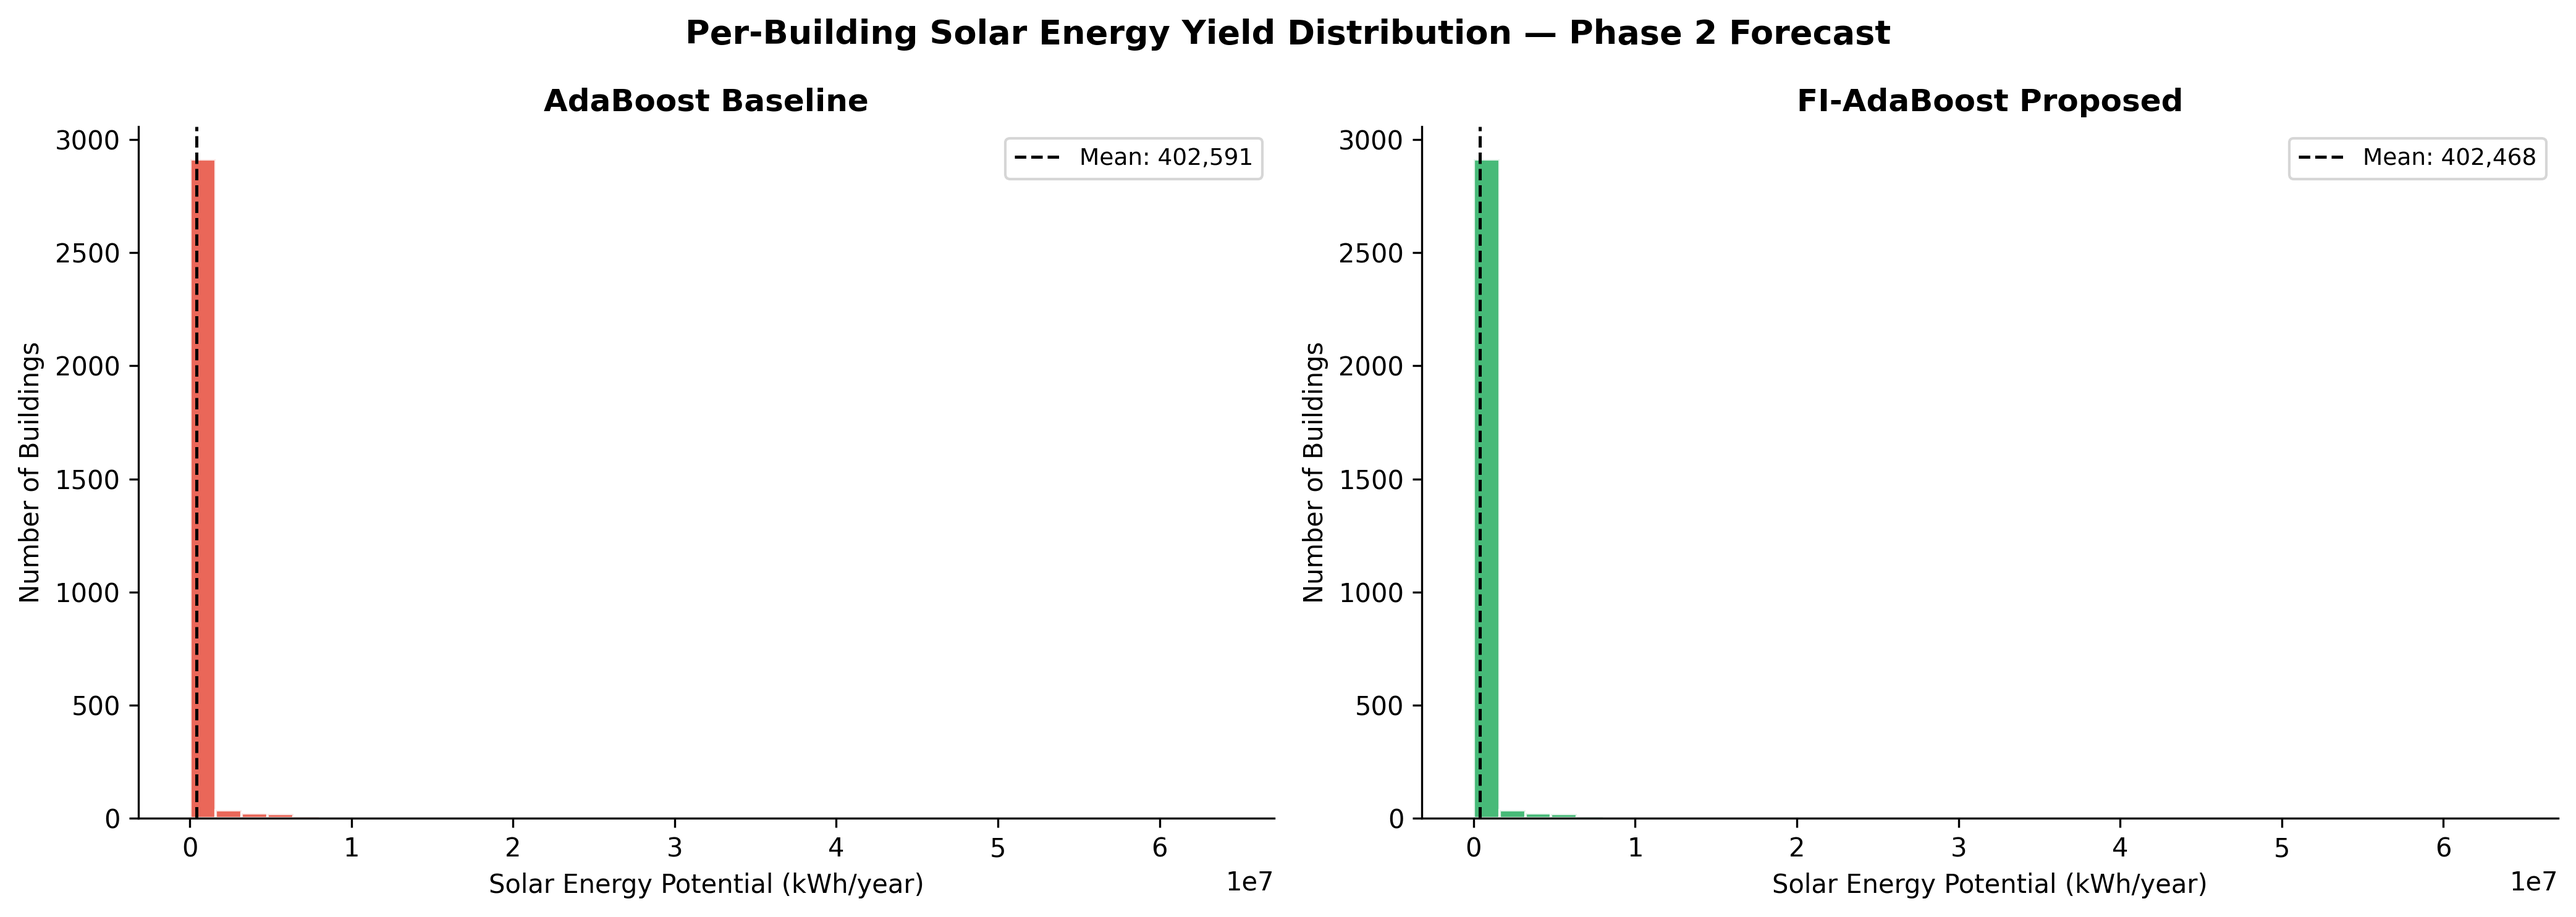
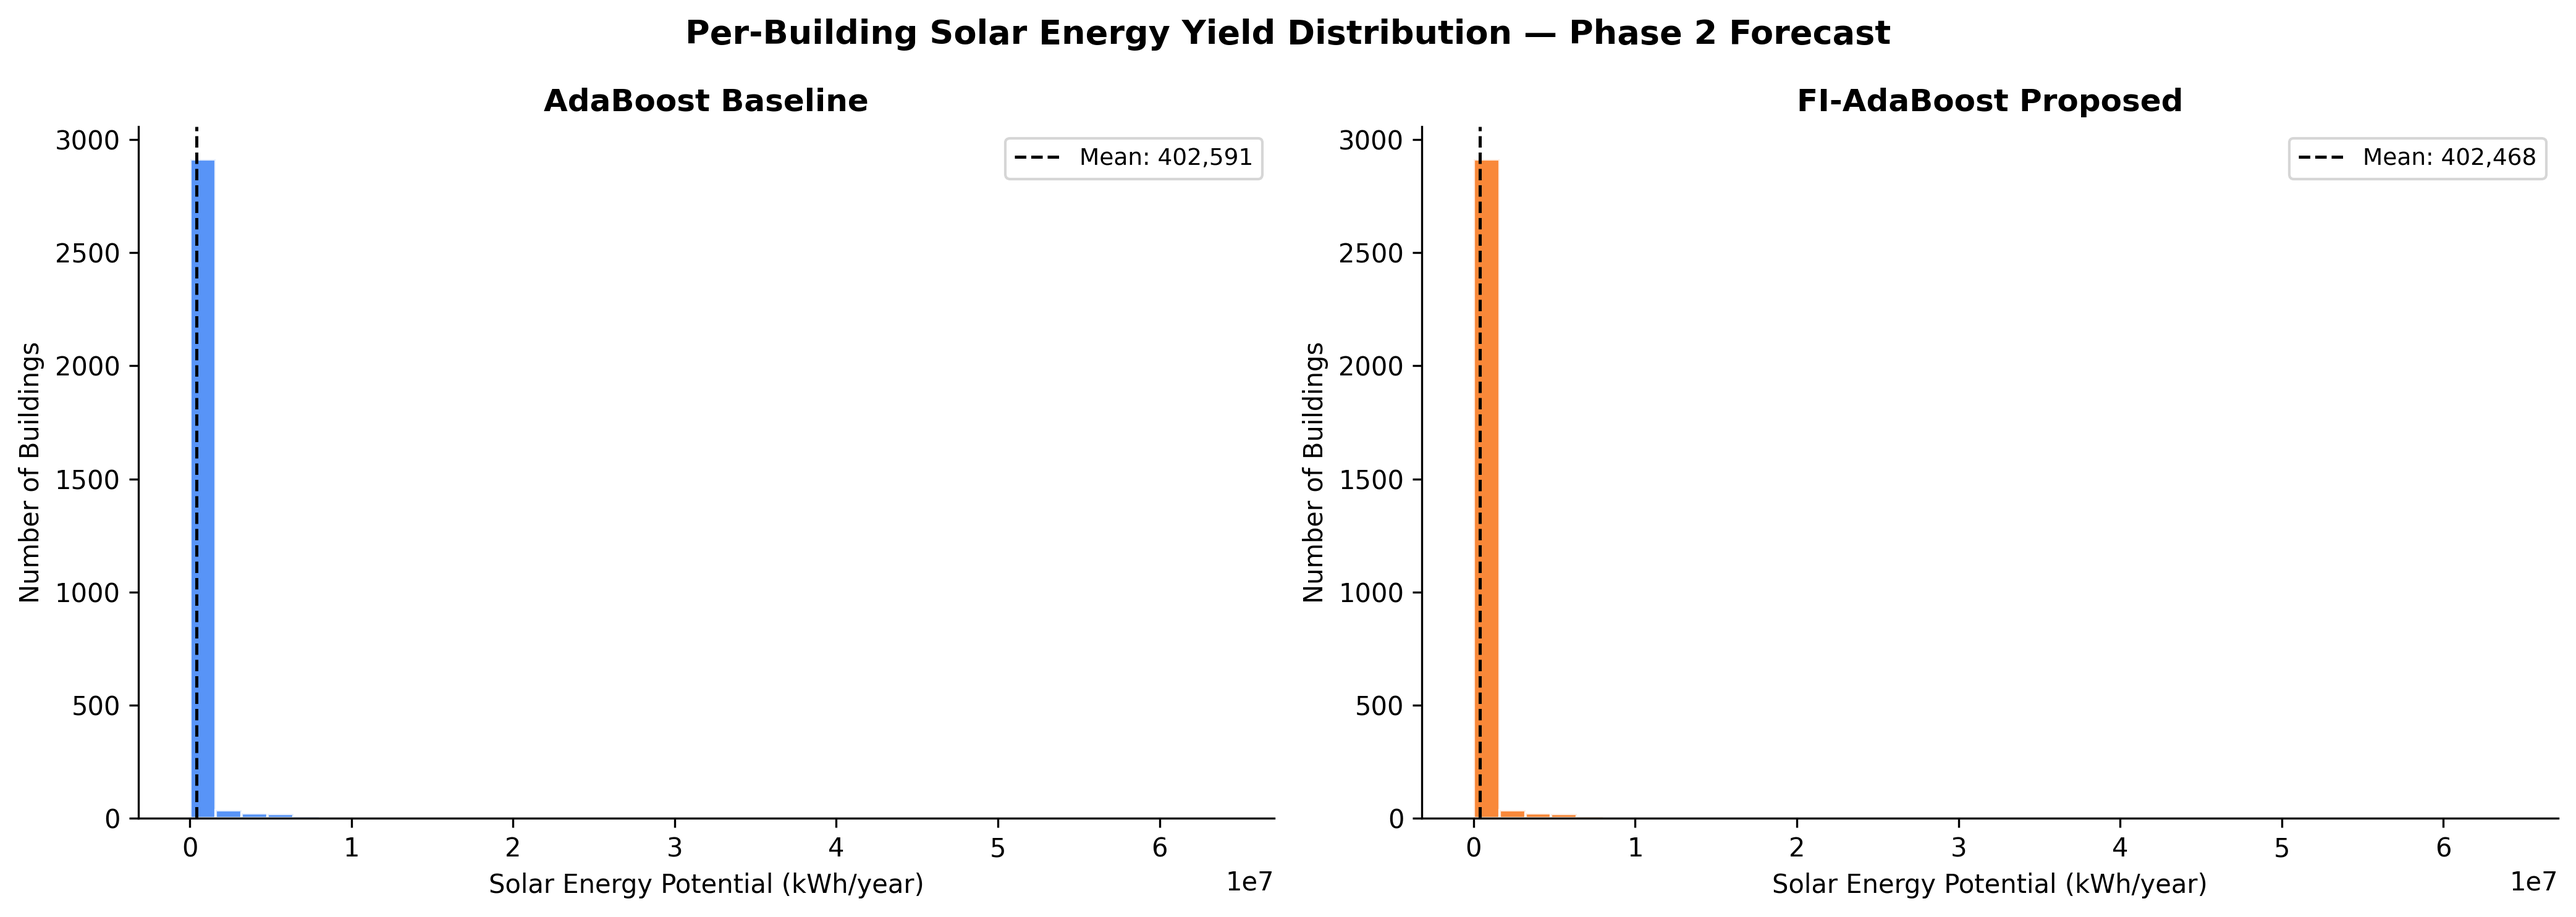
fixed

Changed region(s): [[0.5613, 0.1549, 0.5925, 0.8983], [0.0624, 0.1859, 0.0935, 0.8983]]

diff --git a/Solar_Energy_Potential_Forecasting_Prototype/src/components/GlobalModelAnalytics.tsx b/Solar_Energy_Potential_Forecasting_Prototype/src/components/GlobalModelAnalytics.tsx
@@ -305,7 +305,7 @@ export function GlobalModelAnalytics() {
                         <YAxis stroke="#64748b" />
                         <Tooltip formatter={(v: number | string) => formatExact(Number(v), 6)} />
                         <Legend />
-                        <Bar dataKey="baseline" name="Baseline AdaBoost" fill="#94a3b8" radius={[8, 8, 0, 0]} />
+                        <Bar dataKey="baseline" name="Baseline AdaBoost" fill="#3b82f6" radius={[8, 8, 0, 0]} />
                         <Bar dataKey="fiAdaBoost" name="FI-AdaBoost" fill="#f97316" radius={[8, 8, 0, 0]} />
                       </BarChart>
                     </ResponsiveContainer>
@@ -325,7 +325,7 @@ export function GlobalModelAnalytics() {
                         />
                         <Tooltip formatter={(v: number | string) => formatPercent(Number(v), 6)} />
                         <Legend />
-                        <Bar dataKey="baseline" name="Baseline AdaBoost" fill="#94a3b8" radius={[8, 8, 0, 0]} />
+                        <Bar dataKey="baseline" name="Baseline AdaBoost" fill="#3b82f6" radius={[8, 8, 0, 0]} />
                         <Bar dataKey="fiAdaBoost" name="FI-AdaBoost" fill="#f97316" radius={[8, 8, 0, 0]} />
                       </BarChart>
                     </ResponsiveContainer>
@@ -419,84 +419,6 @@ export function GlobalModelAnalytics() {
               }
             />
           )}
-        </CardContent>
-      </Card>
-
-      {/* ── SECTION 4: Visual Analysis ───────────────────────────────────────── */}
-      <Card className="border-2 border-sky-200 bg-gradient-to-br from-sky-50 via-cyan-50 to-teal-50 shadow-xl">
-        <CardHeader>
-          <CardTitle className="text-2xl">Visual Analysis</CardTitle>
-          <CardDescription>
-            Predicted vs Actual scatter and error distribution histogram.
-          </CardDescription>
-        </CardHeader>
-        <CardContent className="space-y-10">
-          {/* A. Predicted vs Actual */}
-          {/* <section>
-            <h3 className="mb-1 text-lg font-semibold">A. Predicted vs Actual</h3>
-            <p className="mb-4 text-sm text-slate-500">
-              Points on — or close to — the dashed diagonal indicate accurate predictions.
-            </p>
-            {trainingAnalytics ? (
-              <div className="grid grid-cols-1 gap-6 xl:grid-cols-2">
-                <ScatterPanel
-                  title="Baseline AdaBoost"
-                  data={trainingAnalytics.predictedVsActual.baseline}
-                  color="#94a3b8"
-                  domainMin={trainingAnalytics.predictedVsActual.domainMin}
-                  domainMax={trainingAnalytics.predictedVsActual.domainMax}
-                />
-                <ScatterPanel
-                  title="FI-AdaBoost"
-                  data={trainingAnalytics.predictedVsActual.fiAdaBoost}
-                  color="#f97316"
-                  domainMin={trainingAnalytics.predictedVsActual.domainMin}
-                  domainMax={trainingAnalytics.predictedVsActual.domainMax}
-                />
-              </div>
-            ) : (
-              <EmptyState
-                message={loading ? 'Loading scatter plots…' : error ?? 'Training analytics unavailable.'}
-              />
-            )}
-          </section> */}
-
-          {/* B. Error distribution */}
-          <section>
-            <h3 className="mb-1 text-lg font-semibold">B. Error Distribution</h3>
-            <p className="mb-4 text-sm text-slate-500">
-              Residual histogram — FI-AdaBoost should show a tighter spread around zero.
-            </p>
-            {trainingAnalytics ? (
-              <>
-                <ResponsiveContainer width="100%" height={320}>
-                  <BarChart data={trainingAnalytics.errorDistribution} barCategoryGap="10%">
-                    <CartesianGrid strokeDasharray="3 3" stroke="#e5e7eb" />
-                    <XAxis dataKey="bucket" stroke="#64748b" interval={2} angle={-25} textAnchor="end" height={70} />
-                    <YAxis stroke="#64748b" />
-                    <Tooltip />
-                    <Legend />
-                    <Bar dataKey="baseline" name="Baseline residual count" fill="#94a3b8" radius={[5, 5, 0, 0]} />
-                    <Bar dataKey="fiAdaBoost" name="FI-AdaBoost residual count" fill="#f97316" radius={[5, 5, 0, 0]} />
-                  </BarChart>
-                </ResponsiveContainer>
-                {residualNote && (
-                  <div className="mt-4 rounded-xl border border-sky-200 bg-white p-4 text-sm text-slate-700 shadow-sm">
-                    <p>{residualNote}</p>
-                    <p className="mt-2 text-xs text-slate-500">
-                      Residual std — Baseline: {trainingAnalytics.residualSummary.baselineStd.toFixed(2)},
-                      FI-AdaBoost: {trainingAnalytics.residualSummary.fiStd.toFixed(2)}.
-                    </p>
-                  </div>
-                )}
-              </>
-            ) : (
-              <EmptyState
-                message={loading ? 'Loading error distribution…' : error ?? 'Training analytics unavailable.'}
-              />
-            )}
-          </section>
-
         </CardContent>
       </Card>
 
@@ -679,8 +601,13 @@ export function GlobalModelAnalytics() {
                   description: 'Train vs test RMSE per model. A large gap between the two bars signals overfitting — the model memorised training data but generalises poorly.',
                 },
                 {
+                  file: 'baseline_feature_importances.png',
+                  caption: 'Baseline AdaBoost Feature Importances',
+                  description: 'Gini-based feature importance from the baseline AdaBoost ensemble. Higher bars indicate features that contributed more splits across all trees in the baseline model.',
+                },
+                {
                   file: 'standalone_feature_importances.png',
-                  caption: 'Feature Importances',
+                  caption: 'FI-AdaBoost Feature Importances',
                   description: 'Weighted feature importance from FI-AdaBoost weak learners. Higher bars contributed more to the boosting decisions; features on the right drive the most prediction variance.',
                 },
                 {

diff --git a/Solar_Energy_Potential_Forecasting_Prototype/src/components/ModelAnalytics.tsx b/Solar_Energy_Potential_Forecasting_Prototype/src/components/ModelAnalytics.tsx
@@ -30,7 +30,8 @@ interface ComparisonData {
   improvement: {
     solarPotentialDiff: number;
     solarPotentialImprovementPct: number;
-    confidenceLevel: number;
+    baselineConfidenceLevel: number;
+    fiConfidenceLevel: number;
   };
   performanceMetricsComparison?: {
     baseline: { rmse: number; mae: number; r2: number };
@@ -142,36 +143,26 @@ export function ModelAnalytics({ lat = 7.0731, lng = 125.6128 }: ModelAnalyticsP
                 </div>
               </div>
 
-              <div className="rounded-xl border border-sky-200 bg-white p-4 shadow-sm">
-                <p className="text-xs text-slate-500 uppercase tracking-wide">Prediction Confidence</p>
-                <p className="mt-1 text-3xl font-semibold text-sky-700">
-                  {formatPercent(liveComparison.improvement.confidenceLevel, 1)}
-                </p>
-                <p className="text-xs text-slate-400">Based on proximity to training data and model agreement</p>
-              </div>
-
-              {liveComparison.performanceMetricsComparison && (
-                <div className="rounded-xl border border-slate-200 bg-white p-4 shadow-sm">
-                  <p className="text-xs text-slate-500 uppercase tracking-wide">Saved Test Metrics (from results/metrics_summary.csv)</p>
-                  <div className="mt-3 grid grid-cols-1 gap-3 md:grid-cols-3">
-                    <div>
-                      <p className="text-xs text-slate-500">RMSE (J/m²/day)</p>
-                      <p className="text-sm text-slate-700">Baseline: {formatResultsErrorMetric(liveComparison.performanceMetricsComparison.baseline.rmse)}</p>
-                      <p className="text-sm text-orange-600">FI: {formatResultsErrorMetric(liveComparison.performanceMetricsComparison.fiAdaBoost.rmse)}</p>
-                    </div>
-                    <div>
-                      <p className="text-xs text-slate-500">MAE (J/m²/day)</p>
-                      <p className="text-sm text-slate-700">Baseline: {formatResultsErrorMetric(liveComparison.performanceMetricsComparison.baseline.mae)}</p>
-                      <p className="text-sm text-orange-600">FI: {formatResultsErrorMetric(liveComparison.performanceMetricsComparison.fiAdaBoost.mae)}</p>
-                    </div>
-                    <div>
-                      <p className="text-xs text-slate-500">R²</p>
-                      <p className="text-sm text-slate-700">Baseline: {formatRawR2(liveComparison.performanceMetricsComparison.baseline.r2)}</p>
-                      <p className="text-sm text-orange-600">FI: {formatRawR2(liveComparison.performanceMetricsComparison.fiAdaBoost.r2)}</p>
-                    </div>
-                  </div>
+              <div className="grid grid-cols-1 gap-4 md:grid-cols-2">
+                <div className="rounded-xl border border-blue-200 bg-white p-4 shadow-sm">
+                  <p className="text-xs text-slate-500 uppercase tracking-wide">Baseline Prediction Confidence</p>
+                  <p className="mt-1 text-3xl font-semibold text-blue-600">
+                    {formatPercent(liveComparison.improvement.baselineConfidenceLevel, 1)}
+                  </p>
+                  <p className="mt-2 text-xs text-slate-500 leading-relaxed">
+                    Based purely on <span className="font-medium text-slate-600">spatial proximity</span> — how close the selected pin is to the nearest known rooftop point in the training dataset. The baseline model is the reference, so its confidence has no comparison partner; it reflects only how well the location is represented by training data.
+                  </p>
                 </div>
-              )}
+                <div className="rounded-xl border border-orange-200 bg-white p-4 shadow-sm">
+                  <p className="text-xs text-slate-500 uppercase tracking-wide">FI-AdaBoost Prediction Confidence</p>
+                  <p className="mt-1 text-3xl font-semibold text-orange-500">
+                    {formatPercent(liveComparison.improvement.fiConfidenceLevel, 1)}
+                  </p>
+                  <p className="mt-2 text-xs text-slate-500 leading-relaxed">
+                    Combines <span className="font-medium text-slate-600">spatial proximity</span> (70%) and <span className="font-medium text-slate-600">model agreement</span> (30%). Since FI-AdaBoost is an optimisation over the baseline, its confidence is partly validated by how closely it agrees with the reference — a large divergence in predicted irradiance lowers this score.
+                  </p>
+                </div>
+              </div>
             </>
           ) : (
             <div className="rounded-xl border border-dashed border-slate-300 bg-white/70 p-6 text-sm text-slate-500">

diff --git a/FIAdaBoost/src/model_training.py b/FIAdaBoost/src/model_training.py
@@ -106,8 +106,8 @@ DAILY_FEATURES = [
 DAILY_TARGET = "GHI_J"
 
 
-C_ADA = "#E74C3C"
-C_FI  = "#27AE60"
+C_ADA = "#3B82F6"
+C_FI  = "#F97316"
 
 
 # =============================================================================
@@ -229,6 +229,8 @@ class BaselineAdaBoost:
         return self._model.feature_importances_
 
 
+# Objective 1.2.2.2: To optimize the AdaBoost Regression algorithm using a
+# feature-importance-aware weighting mechanism for enhanced learning efficiency.
 class FIAdaBoostRegressor:
     def __init__(self, n_estimators=141, learning_rate=0.63, max_depth=4,
                  random_state=RANDOM_SEED):
@@ -329,6 +331,15 @@ class FIAdaBoostRegressor:
             mid   = np.searchsorted(cumw, 0.5)
             result[i] = p_i[order[min(mid, len(p_i) - 1)]]
         return result
+
+# FIAdaBoostRegressor works by running AdaBoost on decision-tree stumps, but at each
+# boosting round it computes a per-sample "feature-importance engagement score" (Phi_i)
+# from the current tree's Gini importances and the sample's scaled feature values.
+# This score modulates the per-sample loss so that samples which activate high-importance
+# features receive amplified weight updates, steering subsequent trees toward the
+# feature-rich, harder-to-predict regions of the input space.  Final prediction uses a
+# weighted median across all weak-learner outputs — more robust than a weighted mean when
+# individual trees are unreliable.
 
 
 # =============================================================================
@@ -768,6 +779,26 @@ def plot_standalone_feature_importance(fi_vals, feats):
     plt.close()
 
 
+def plot_standalone_baseline_feature_importance(ada_vals, feats):
+    plt.figure(figsize=(10, 6))
+    labels = [f.replace("_", " ").title() for f in feats]
+    idx    = np.argsort(ada_vals)
+    sv     = ada_vals[idx]
+    sl     = np.array(labels)[idx]
+    bars   = plt.barh(sl, sv, color=C_ADA, edgecolor="black", alpha=0.85)
+    for bar, val in zip(bars, sv):
+        plt.text(val + 0.005, bar.get_y() + bar.get_height() / 2,
+                 f"{val * 100:.4f}%", va="center", ha="left", fontsize=10, fontweight="bold")
+    plt.title("Baseline AdaBoost Feature Importance", fontsize=14, fontweight="bold")
+    plt.xlabel("Relative Importance Weight", fontsize=12)
+    plt.xlim(0, max(sv) + 0.1)
+    plt.gca().spines["top"].set_visible(False)
+    plt.gca().spines["right"].set_visible(False)
+    plt.tight_layout()
+    plt.savefig(os.path.join(RESULTS_DIR, "baseline_feature_importances.png"), dpi=300)
+    plt.close()
+
+
 def plot_actual_vs_predicted(y_true_ada, y_pred_ada, y_true_fi, y_pred_fi):
     fig, axes = plt.subplots(1, 2, figsize=(14, 6))
     for ax, y_true, y_pred, color, title in [
@@ -1004,6 +1035,10 @@ def main():
     # Diebold–Mariano test (Fix 5)
     dm = diebold_mariano_test(y_te - ada_te, y_te - fi_te)
 
+    print("\n  Baseline AdaBoost Feature Importances:")
+    for feat, imp in sorted(zip(SHARED_FEATURES, ada.feature_importances_), key=lambda x: -x[1]):
+        print(f"    {feat:<25}: {imp * 100:.4f}%")
+
     print("\n  FI-AdaBoost Feature Importances (Fix 6 — raw, no log transform):")
     for feat, imp in sorted(zip(SHARED_FEATURES, fi.feature_importances_),
                             key=lambda x: -x[1]):
@@ -1033,6 +1068,7 @@ def main():
     p_forecast = save_forecast_csv(ada_fcast, fi_fcast)
     p_dm       = save_dm_results(dm, suffix="spatial")
 
+    plot_standalone_baseline_feature_importance(ada.feature_importances_, SHARED_FEATURES)
     plot_standalone_feature_importance(fi.feature_importances_, SHARED_FEATURES)
     plot_actual_vs_predicted(y_te, ada_te, y_te, fi_te)
     plot_residuals(y_te, ada_te, y_te, fi_te)
@@ -1046,6 +1082,7 @@ def main():
         ("CSV",   p_metrics),
         ("CSV",   p_forecast),
         ("CSV",   p_dm),
+        ("Plot",  os.path.join(RESULTS_DIR, "baseline_feature_importances.png")),
         ("Plot",  os.path.join(RESULTS_DIR, "standalone_feature_importances.png")),
         ("Plot",  os.path.join(RESULTS_DIR, "actual_vs_predicted.png")),
         ("Plot",  os.path.join(RESULTS_DIR, "residuals.png")),

diff --git a/FIAdaBoost/src/api.py b/FIAdaBoost/src/api.py
@@ -1013,22 +1013,24 @@ class ModelContext:
                 self.training_analytics_error = str(exc)
                 self.training_analytics = None
 
-    def confidence_level(self, lat: float, lng: float, diff_kwh: float) -> float:
+    def confidence_scores(self, lat: float, lng: float, diff_kwh: float) -> tuple[float, float]:
         self.ensure_location_index_loaded()
 
+        # agreement_score: penalises large irradiance differences between the two models
         agreement_score = float(np.clip(100.0 - abs(diff_kwh) * 20.0, 35.0, 99.0))
         if self._kd_tree is not None and self.location_points is not None:
             distance_deg, _ = self._kd_tree.query([lat, lng])
             distance_km = float(distance_deg) * 111.0
             coverage_score = float(np.clip(100.0 - distance_km * 2.5, 35.0, 99.0))
-            return float(np.clip(0.7 * coverage_score + 0.3 * agreement_score, 35.0, 99.0))
-
-        in_bounds = (
-            self.lat_range[0] <= lat <= self.lat_range[1]
-            and self.lon_range[0] <= lng <= self.lon_range[1]
-        )
-        coverage_score = 82.0 if in_bounds else 55.0
-        return float(np.clip(0.7 * coverage_score + 0.3 * agreement_score, 35.0, 99.0))
+        else:
+            in_bounds = (
+                self.lat_range[0] <= lat <= self.lat_range[1]
+                and self.lon_range[0] <= lng <= self.lon_range[1]
+            )
+            coverage_score = 82.0 if in_bounds else 55.0
+        baseline_confidence = float(np.clip(coverage_score, 35.0, 99.0))
+        fi_confidence = float(np.clip(0.7 * coverage_score + 0.3 * agreement_score, 35.0, 99.0))
+        return baseline_confidence, fi_confidence
 
 
 ctx = ModelContext()
@@ -1139,7 +1141,7 @@ def compare_models(payload: PredictRequest) -> CompareResponse:
             if baseline_result.solarPotential != 0
             else 0.0
         )
-        confidence = ctx.confidence_level(payload.lat, payload.lng, irradiance_diff_kwh_m2)
+        baseline_confidence, fi_confidence = ctx.confidence_scores(payload.lat, payload.lng, irradiance_diff_kwh_m2)
 
         baseline_metrics = ctx.performance_metrics.get(
             "baseline",
@@ -1156,8 +1158,8 @@ def compare_models(payload: PredictRequest) -> CompareResponse:
             improvement={
                 "solarPotentialDiff": float(diff_kwh),
                 "solarPotentialImprovementPct": float(improvement_pct),
-                "accuracyGain": float(abs(diff_kwh)),
-                "confidenceLevel": confidence,
+                "baselineConfidenceLevel": baseline_confidence,
+                "fiConfidenceLevel": fi_confidence,
             },
             performanceMetricsComparison={
                 "baseline": baseline_metrics,
